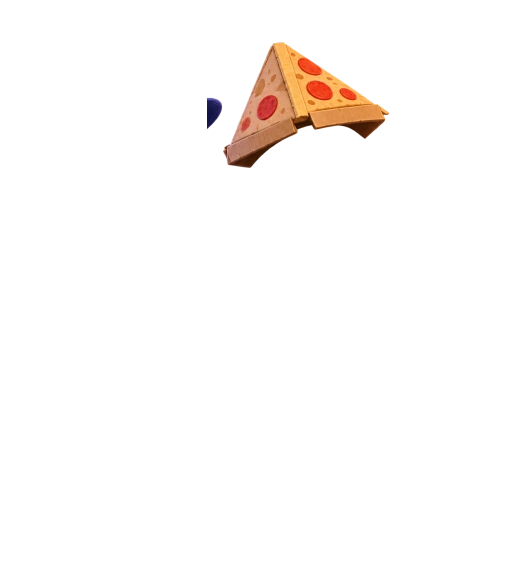
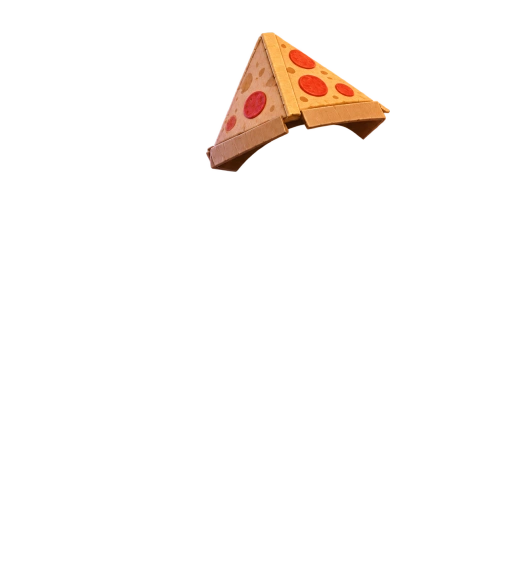
fix: extract standalone hats by connected components to eliminate grid cuts

Changed region(s): [[0.4062, 0.0312, 0.7812, 0.3125]]

diff --git a/src/style.css b/src/style.css
@@ -398,8 +398,8 @@ button:disabled {
   --rarity: #aeb5c2;
   position: relative;
   flex: 1 0 auto;
-  min-height: 365px;
-  padding-top: 24px;
+  min-height: 380px;
+  padding-top: 40px;
   width: 100%;
   max-width: 100%;
   display: flex;
@@ -1705,7 +1705,7 @@ button:disabled {
 
 @media (max-height: 860px) {
   .pigeon-stage-container {
-    min-height: 335px;
+    min-height: 350px;
   }
   .pigeon-layers {
     width: min(82vw, 310px);

diff --git a/src/ui.tsx b/src/ui.tsx
@@ -123,7 +123,7 @@ export const PIGEON_SKIN_COLORS: Record<string, string> = {
   "iridescent-oil-slick": "#5e5a67", "skin-18": "#5e5a67", "18": "#5e5a67",
 };
 
-const ASSET_V = "?v=18";
+const ASSET_V = "?v=20";
 
 export function resolveSkinSrc(skin?: string | null): string {
   if (!skin || skin === "common" || skin === "default") {

diff --git a/scripts/build-pigeon-assets.py b/scripts/build-pigeon-assets.py
@@ -473,24 +473,24 @@ def extract_accessory_diff(
 # Используется расширенный холст 512x576 (64px запас сверху), чтобы высокие шапки были в натуральную величину и не обрезались
 HAT_HEADROOM = 64
 STANDALONE_HAT_FIT: dict[int, tuple[int, int, int]] = {
-    1: (188, 297, 106),  # Чёрная панама
-    2: (184, 308, 104),  # Жёлтая кепка
-    3: (148, 299, 88),   # Золотая корона
-    4: (206, 290, 162),  # Шапка-ушанка
-    5: (184, 306, 103),  # Красная бейсболка
-    6: (190, 276, 132),  # Красная повязка
-    7: (210, 290, 108),  # Шляпа волшебника
-    8: (182, 298, 104),  # Кусок пиццы
-    9: (162, 300, 105),  # Кроличьи ушки
+    1: (190, 297, 110),  # Чёрная панама
+    2: (186, 308, 108),  # Жёлтая кепка
+    3: (150, 299, 90),   # Золотая корона
+    4: (212, 290, 168),  # Шапка-ушанка
+    5: (186, 306, 107),  # Красная бейсболка
+    6: (192, 276, 134),  # Красная повязка
+    7: (212, 290, 112),  # Шляпа волшебника
+    8: (184, 298, 108),  # Кусок пиццы
+    9: (164, 300, 108),  # Кроличьи ушки
     10: (142, 300, 52),  # Золотой нимб
-    11: (180, 307, 102), # Неоновый козырёк
-    12: (172, 294, 105), # Красная шапка с помпоном
-    13: (182, 306, 103), # Кепка с пропеллером
-    14: (178, 298, 103), # Колпак повара
-    15: (204, 296, 105), # Пиратская треуголка
-    16: (192, 298, 105), # Зелёная панама-лягушка
-    17: (202, 294, 124), # Колпак шута
-    18: (194, 288, 148), # Шлем авиатора
+    11: (182, 307, 106), # Неоновый козырёк
+    12: (178, 295, 115), # Красная шапка с помпоном
+    13: (184, 306, 107), # Кепка с пропеллером
+    14: (180, 298, 109), # Колпак повара
+    15: (206, 296, 109), # Пиратская треуголка
+    16: (194, 298, 112), # Зелёная панама-лягушка
+    17: (204, 294, 126), # Колпак шута
+    18: (200, 288, 154), # Шлем авиатора
 }
 
 
@@ -510,27 +510,31 @@ def build_standalone_hats_assets(session):
         raw = np.array(Image.open(sheet_path))
         has_alpha = raw.ndim == 3 and raw.shape[2] == 4
         h, w = raw.shape[:2]
-        cw, ch = w / 3.0, h / 2.0
-        for row in range(2):
-            for col in range(3):
-                y0, y1 = int(round(row * ch)), int(round((row + 1) * ch))
-                x0, x1 = int(round(col * cw)), int(round((col + 1) * cw))
-                cell = raw[y0:y1, x0:x1]
-                if has_alpha:
-                    seg_rgba = cell.copy()
-                else:
-                    seg_rgba = segment_subject(cell[:, :, :3], session)
 
-                # Убираем мелкий мусор/осколки с соседних ячеек (оставляем главный объект и крупные детали >= 1500 px)
-                num_l, labels, stats, _ = cv2.connectedComponentsWithStats((seg_rgba[:, :, 3] > 20).astype(np.uint8))
-                if num_l > 1:
-                    main_lbl = int(np.argmax(stats[1:, cv2.CC_STAT_AREA]) + 1)
-                    valid = np.zeros(seg_rgba.shape[:2], dtype=bool)
-                    for lbl in range(1, num_l):
-                        if lbl == main_lbl or stats[lbl, cv2.CC_STAT_AREA] >= 1500:
-                            valid[labels == lbl] = True
-                    seg_rgba[~valid, 3] = 0
+        # Выделяем 6 цельных шапок по связным компонентам (без жёсткой сетки w/3, которая резала края)
+        row_items: list[np.ndarray] = []
+        for row_idx in range(2):
+            ry0 = 0 if row_idx == 0 else h // 2
+            ry1 = h // 2 if row_idx == 0 else h
+            band = raw[ry0:ry1, :]
+            band_rgba = band.copy() if has_alpha else segment_subject(band[:, :, :3], session)
 
+            mask = (band_rgba[:, :, 3] > 20).astype(np.uint8)
+            grouped = cv2.dilate(mask, cv2.getStructuringElement(cv2.MORPH_ELLIPSE, (11, 11)))
+            num_l, labels, stats, centroids = cv2.connectedComponentsWithStats(grouped)
+            comps = []
+            for lbl in range(1, num_l):
+                if stats[lbl, cv2.CC_STAT_AREA] >= 3000:
+                    comps.append((float(centroids[lbl][0]), lbl))
+            comps.sort(key=lambda t: t[0])
+
+            for _, lbl in comps[:3]:
+                obj = band_rgba.copy()
+                obj[labels != lbl, 3] = 0
+                row_items.append(obj)
+
+        for seg_rgba in row_items:
+            if True:
                 ys, xs = np.where(seg_rgba[:, :, 3] > 20)
                 if len(ys) == 0:
                     continue
